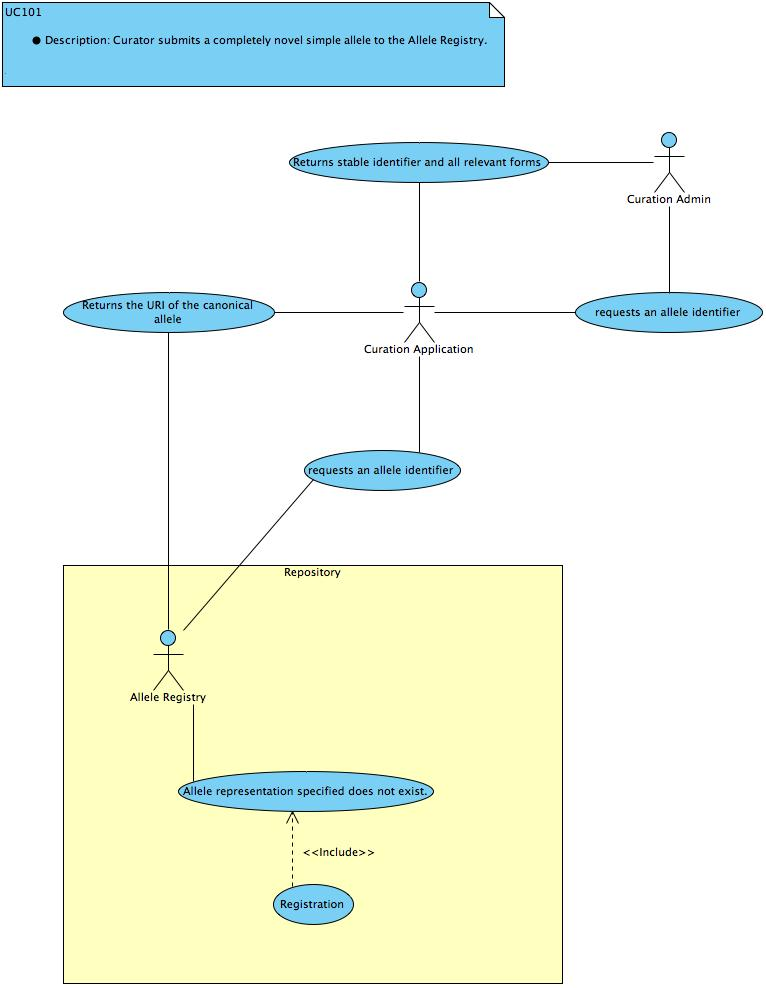
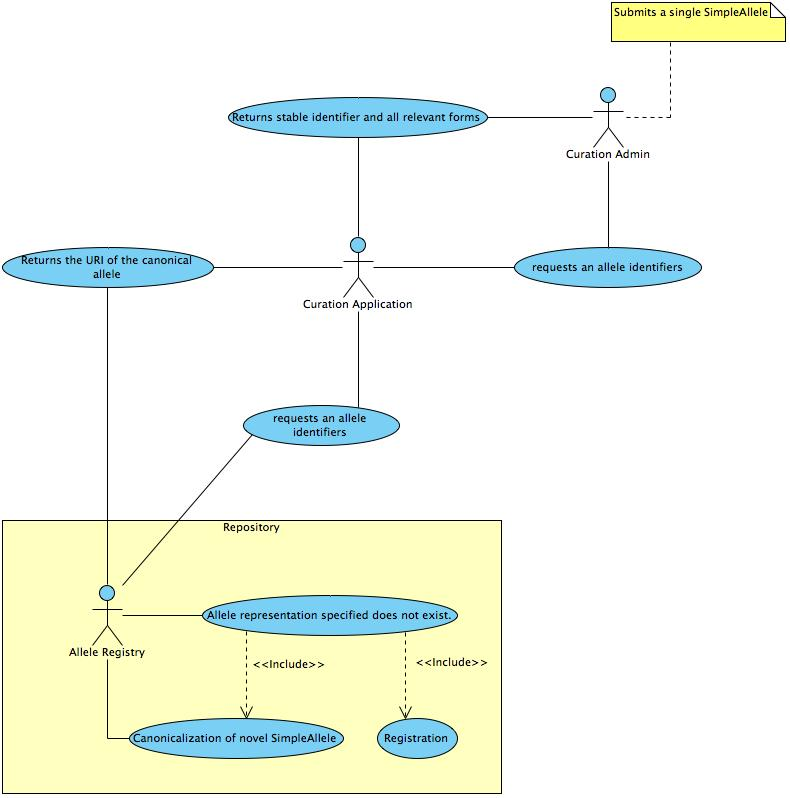
new use case added and images

diff --git a/docs/use-cases/UC110.md b/docs/use-cases/UC110.md
@@ -10,7 +10,6 @@ Curator submits a collection of SimpleAlleles occurring as a haplotype (complexS
 
 ####Pre-conditions
 - *Reference Data*
-
 - None of the allele of the haplotype previously exist in the *Allele Registry*, nor does a canonical representation occur.
 
 ####Steps
@@ -18,8 +17,11 @@ Curator submits a collection of SimpleAlleles occurring as a haplotype (complexS
 2. The *Curation application* requests an allele identifier from the *Allele Registry* using one of the minimal required data sets (pre-conditions) for representing an allele.
 3. The *Allele Registry* verifies the accuracy of reference information.
 4. The *Allele Registry* determines that the alleles represented do not already exist as individual simpleAlleles or as a haplotype.
-5. The *Allele Registry* return the URI of all simpleAlleles (novel so would return the canonical URL's), and the haplotype URL to the *Curation Application*.
-6. The *Curation Application* captures the universal stable allele identifiers and presents all forms to the *Curation admin*.
+5. All SimpleAlleles are registered.
+6. Canonical forms of all SimpleAlles are created.
+7. Haplotype identifier is created.
+8. The *Allele Registry* return the URI of all simpleAlleles (novel so would return the canonical URL's), and the haplotype URL to the *Curation Application*.
+9. The *Curation Application* captures the universal stable allele identifiers and presents all forms to the *Curation admin*.
 
 ####Post-conditions
 - The *Curation Application* would be responsible for preserving linkage between the identifier and the source representation of all the alleles and their association as a haplotype group.
@@ -33,3 +35,4 @@ Curator submits a collection of SimpleAlleles occurring as a haplotype (complexS
 ####Questions/Comments
 - What steps would be needed in cases were 2/3 of the above alleles were known but were not recorded as being part of the same haplotype?  Would the *Allele Registry* return any future request with all known alleles and any haplotype groups they are registered with?  This type of return would be very valuable.
 
+![logo](https://github.com/clingen-data-model/allele-registry/blob/master/images/UC110.jpg)

diff --git a/docs/use-cases/UC104.md b/docs/use-cases/UC104.md
@@ -1,7 +1,7 @@
 ###Submit an amino acid simple allele (*UC104*)
 
 **Description**
-Submit an amino acid simple allele
+Admin Submits an amino acid simple allele, and does not know if it exists in the *Registry*.
 
 ####Actors
 - *Curation Admin* 
@@ -11,14 +11,13 @@ Submit an amino acid simple allele
 ####Pre-conditions
 - *Reference Data*
 
-- It unknown if the allele representation to be registered exists in the *Allele Registry*, nor does canonical representation.
-
 ####Steps (assuming Pre-condition one is given).
 1. *Curation admin* requests a formal allele identifier from the *Curation Application* in order to capture specific evidence from one or more publications.
 2. The *Curation application* requests an allele identifier from the *Allele Registry* using one of the minimal required data sets (see pre-conditions) for representing an allele.
 3. The *Allele Registry* first checks in protein space then if needed allele space for previously registered Simple Alleles.
 4. The *Allele Registry* determines that the allele has been registered, and returns the URI to the *Curation Application*.
-5. The *Curation Application* returns the URI to the *Curation Admin*
+5. The *Allele Registry* return the URI of other known alleles, the canonical version.
+6. The *Curation Application* returns the URI to the *Curation Admin*
 
 ####Post-conditions
 - The *Curation Application* returns a universal stable identifier authorized by the *Allele Registry* for the original allele representation submitted by the *Curation Admin*.  
@@ -32,3 +31,4 @@ Submit an amino acid simple allele
 ####Questions/Comments
 - Should the *Allele Registry* return the URI of other known alleles, the canonical version, or both?
 
+![logo](https://github.com/clingen-data-model/allele-registry/blob/master/images/UC104.jpg)

diff --git a/docs/use-cases/UC117.md b/docs/use-cases/UC117.md
@@ -1,0 +1,28 @@
+###Two canonical alleles are found to represent the same entity within Allele Registry (*UC117*)
+
+**Description**
+An internal review of the canonical alleles result in duplicate or misrepresentation data.
+
+####Actors
+- *Allele Registry*
+- *Allele Registry Admin*
+- *Internal code base*
+
+####Pre-conditions
+- *Reference data*
+
+####Steps
+1. User, *Allele Registry Admin* or *Allele Registry* discovers duplicate or misrepresentation data.
+2. *Allele Registry* uses *Internal code base* to review all representation from multiple sources (i.e. protein, HGVS, genomic) to test for errors, misrepresentations typo, etc.
+3. Return lists to *Allele Registry Admin* from both _found differences_ and _no differences_.
+4. Based on review, changes are made to the *Allele Registry*.
+
+####Post-conditions
+- *Allele Registry Admin* will need to adjudicate reason why differences are discovered and make changes to the *Registry*.
+
+####Exceptions
+
+####Questions/Comments
+- A Use Case like this brings up the question if formal rules will be needed to adjudicate difference found, and what process that will take.
+
+![logo](https://github.com/clingen-data-model/allele-registry/blob/master/images/UC117.jpg)

diff --git a/docs/use-cases/index.md b/docs/use-cases/index.md
@@ -4,6 +4,8 @@
 
 ##Variant Curation Cases
 
+-For a greater understanding of *Actors*, *pre-conditions* and *supported_representations* please review this [section](https://github.com/clingen-data-model/allele-registry/tree/master/docs).
+
 ID    | Name | Status
 ------|------| ---
 [UC101](./UC101.md) | Submit a completely novel simple allele | needs review
@@ -22,5 +24,6 @@ UC112 | Submit a haplotype with novel simple alleles whose combination already h
 [UC114](./UC114.md) | Submit a simple allele that does not match the given reference | need review
 UC115 | A new version of a reference sequence is added to the system | todo
 [UC116](./UC116.md)| A change to a reference allele causes the invalidation of a canonical allele | needs review
-UC117 | Two canonical alleles are found to represent the same entity | todo
+[UC117](./UC117.md) | Two canonical alleles are found to represent the same entity | needs review
 UC118 | The canonicalizer is updated, moving to a new version.  | todo
+

diff --git a/README.md b/README.md
@@ -15,4 +15,4 @@ The catalog or index of use cases can be found [here](./docs/use-cases/index.md)
 
 How to contribute?
 ---
-Any one may propose a new use case, as well as, suggest changes to existing use cases. All submissions will be managed by the members of this project, but it is the expectation that the original author(s) will remain engaged in the development process and sign off on the end result. (TBD) there may be the need to represent original authorship approval in the documentation.
+Any one may [propose a new use case](https://github.com/clingen-data-model/allele-registry/issues), as well as, suggest changes to existing use cases. All submissions will be managed by the members of this project, but it is the expectation that the original author(s) will remain engaged in the development process and sign off on the end result. (TBD) there may be the need to represent original authorship approval in the documentation.

diff --git a/docs/pre-conditions.md b/docs/pre-conditions.md
@@ -1,10 +1,13 @@
 #Pre-conditions
 
+
+## Reference data
+
 When using the *Allele Registry* both the system and the user will be expect to supply reference data to allow the correct canonicalization of alleles.
 
-## System Reference data
+### System Reference data
 The *Allele Registry* will need to internally maintain and update all known (or pre-decided selection of) Genome build assemblies (RefSeq), reference transcripts, and genome feature files (GFF3).
 
 
-## User Reference data
+### User Reference data
 The *Curation Admin* or registered user will need to supply equivalent reference data in relation to their allele of interest. 

diff --git a/docs/use-cases/UC114.md b/docs/use-cases/UC114.md
@@ -39,3 +39,4 @@ Curator submits a simpleAllele and it is discovered the given reference data doe
 - The above example also states the need for the Registry and any Applications to have detailed error reporting.
 - In this use-case example I had the *Allele Registry* search for possible correct reference information, I'm unsure if the Registry should handle this or just operate as [UC113](./UC113.md).
 
+![logo](https://github.com/clingen-data-model/allele-registry/blob/master/images/UC114.jpg)

diff --git a/docs/use-cases/UC113.md b/docs/use-cases/UC113.md
@@ -32,3 +32,4 @@ Curator submits a simpleAllele with an unknown reference (or reference missing).
 - This use-case seems very clear.  We should never registry data without clean, clear reference data. No exceptions.
 - The above example also states the need for the Registry and any Applications to have detailed error reporting.
 
+![logo](https://github.com/clingen-data-model/allele-registry/blob/master/images/UC113.jpg)

diff --git a/docs/use-cases/UC111.md b/docs/use-cases/UC111.md
@@ -35,3 +35,4 @@ Curator submits a collection of known SimpleAlleles as part of a haplotype but i
 ####Questions/Comments
 - Would the *Curation Application* not only return the novel haplotype group but any other simpleAllele or haplotype groups associated with the original request.
 
+![logo](https://github.com/clingen-data-model/allele-registry/blob/master/images/UC111.jpg)

diff --git a/docs/use-cases/UC116.md b/docs/use-cases/UC116.md
@@ -25,5 +25,7 @@ An update or correction of reference information invalidates one (many) canonica
 ####Exceptions
 
 ####Questions/Comments
+- Should the Allele Registry be required to inform all users of any/all changes made to alleles submitted, including invalid data found.
 
 
+![logo](https://github.com/clingen-data-model/allele-registry/blob/master/images/UC116.jpg)
